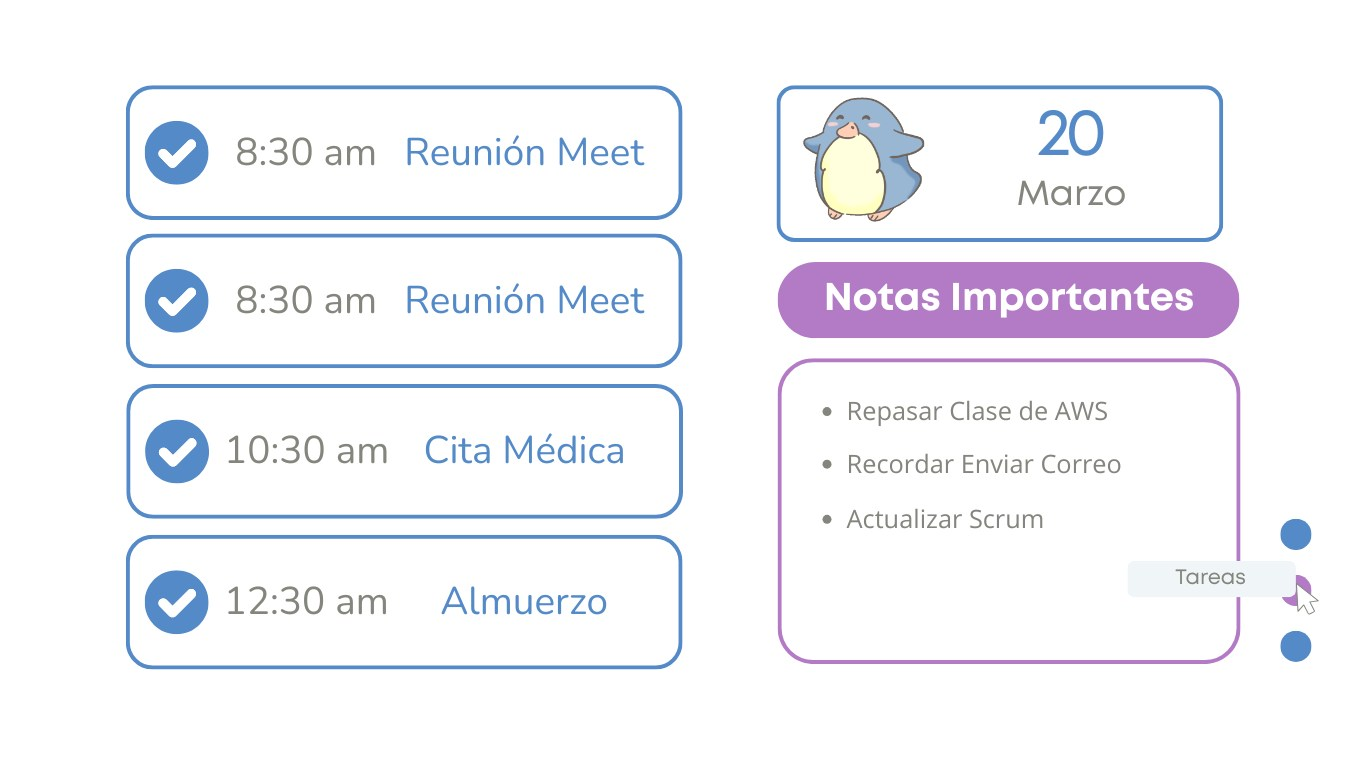
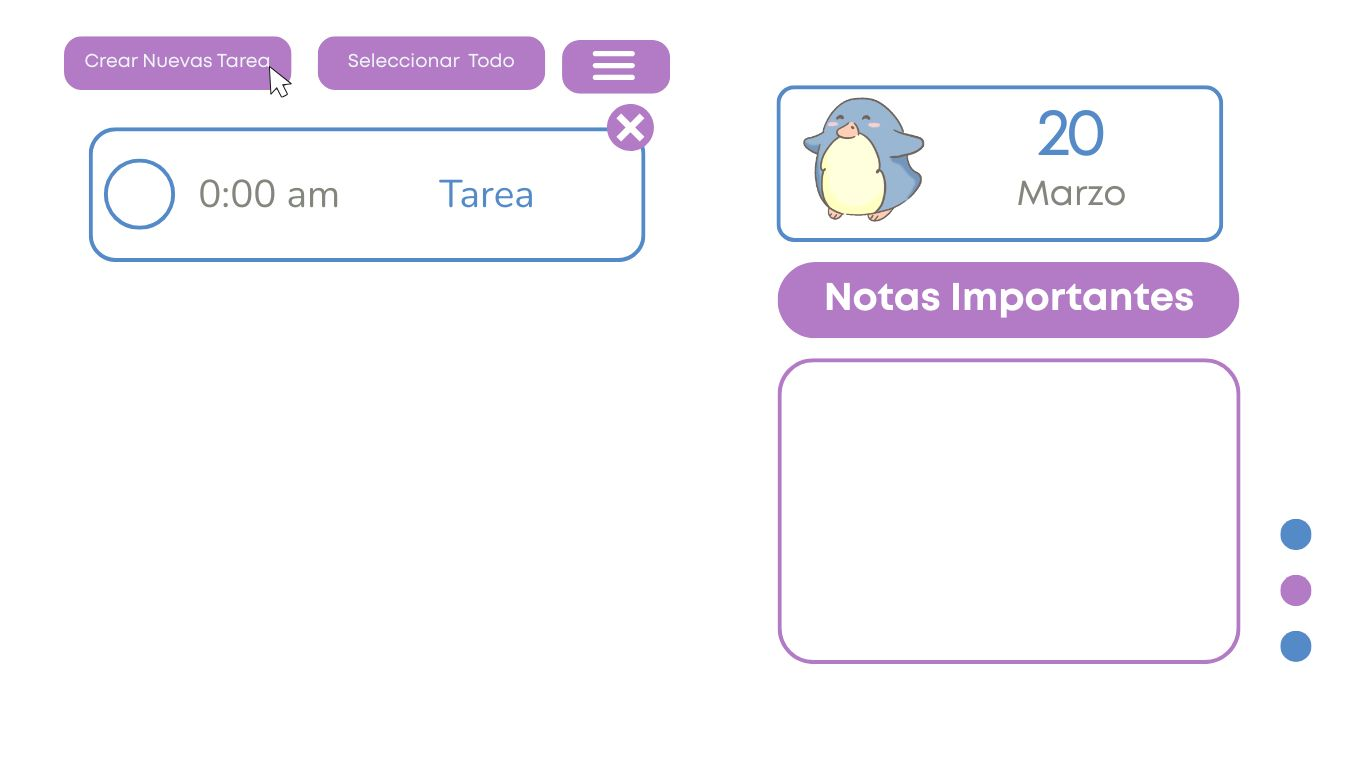
Update visuales

diff --git a/ToDoList/ToDoList/src/ToDo/ToDo.css b/ToDoList/ToDoList/src/ToDo/ToDo.css
@@ -1,7 +1,7 @@
 .ContToDo {
     display: grid;
     grid-template-columns: 1fr 1fr;
-    grid-template-rows: 90vh 10vh;
+    grid-template-rows: 100vh;
 }
 
 .ContToDo-list,

diff --git a/ToDoList/ToDoList/README.md b/ToDoList/ToDoList/README.md
@@ -9,10 +9,11 @@
 
 ![Bienvenida](./Visuales/LISTO.jpg)
 ![To Do List](./Visuales/Visual_2.jpg)
+![To Do List](./Visuales/Visual_2.1.jpg)
 ![Resumen Diario](./Visuales/Visual_3.jpg)
 
 
-##Paleta de Colores
+## Paleta de Colores
 - **Azul Claro : #558ac9**
 - **Blanco Hielo  : #f0f5f7**
 - **Lila : #b37bc6**
